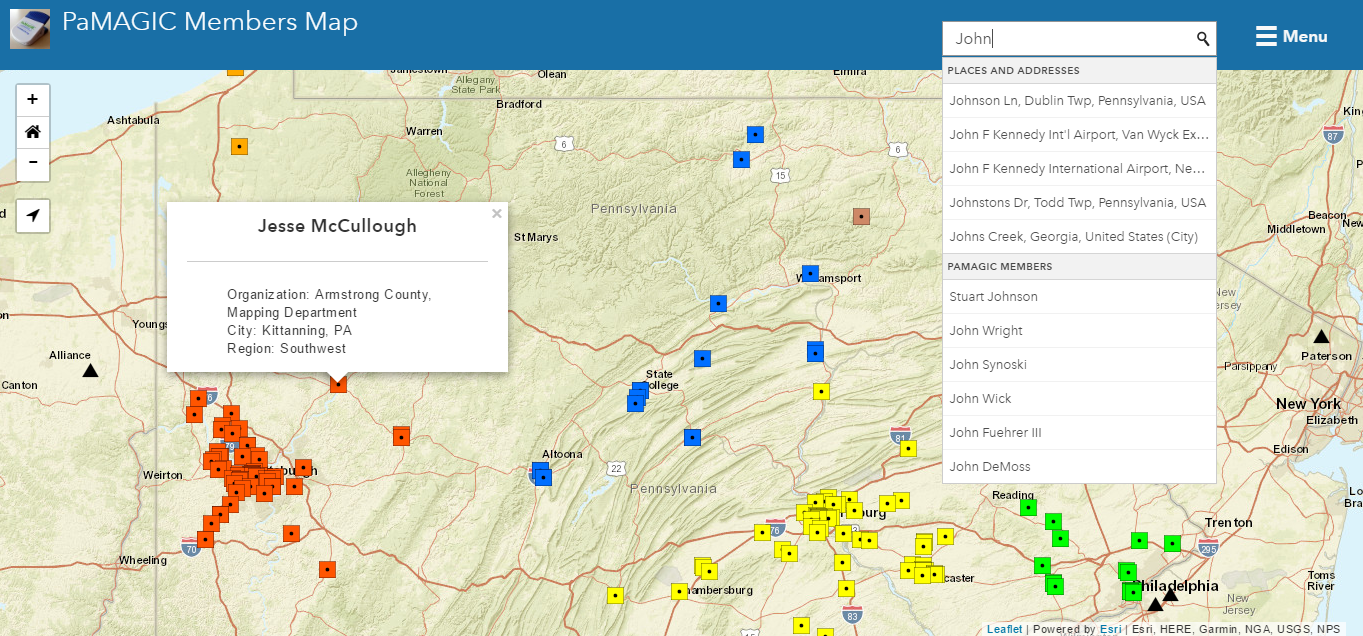
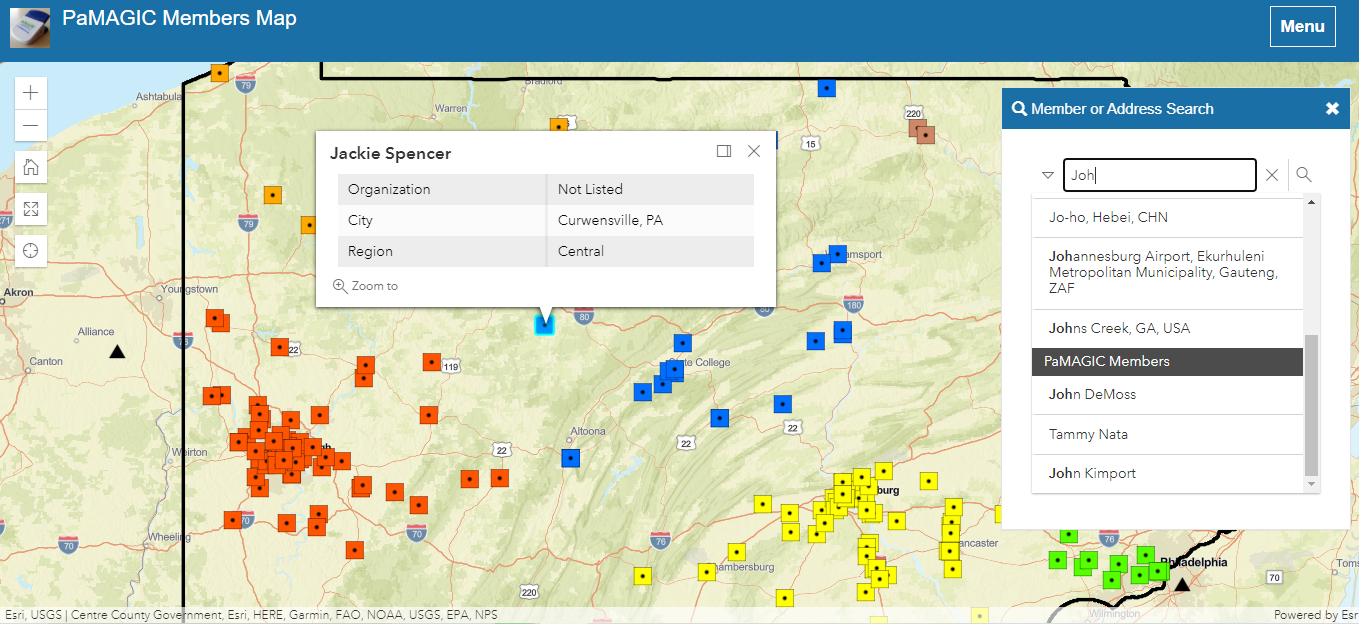
update content and image for pamagic members map to reflect esri js libary

diff --git a/portfolio_singles/pamagic-members-map.html b/portfolio_singles/pamagic-members-map.html
@@ -13,7 +13,7 @@ permalink: /portfolio/product/pamagic-members-map
                 <h1 class="text-center">PAMAGIC Members Map</h1>
                 <hr />
                 <p>The PaMAGIC Members Map was developed to visualize the locations of members of the Pennsylvania Mapping and Geographic Information Consortium, provide basic information about each member, and allow users to search for members.</p>
-                <p>The web map application integrates the Leaflet.js library and the Esri <a href="https://github.com/Esri/calcite-maps" target="_blank" rel="noopener">Calcite Maps</a> project.  Calcite Maps is web map template based on Bootstrap.  Users can search for a street address or PAMAGIC member using the Esri Leaflet Geocoding plugin.</p>
+                <p>The web map application integrates the Esri JavaScript API and the Esri <a href="https://github.com/Esri/calcite-maps" target="_blank" rel="noopener">Calcite Maps</a> project.  Calcite Maps is web map template based on Bootstrap.  Esri Arcade Expressions were used to conditionally load content into the pop-up windows on the map.</p>
                 <hr />
             </div>
         </div>
